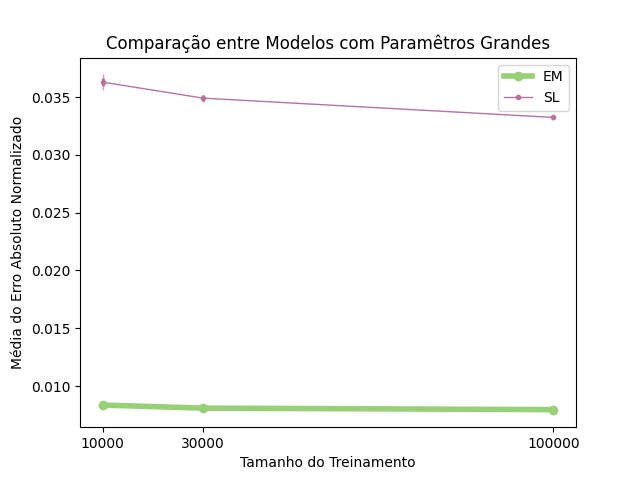
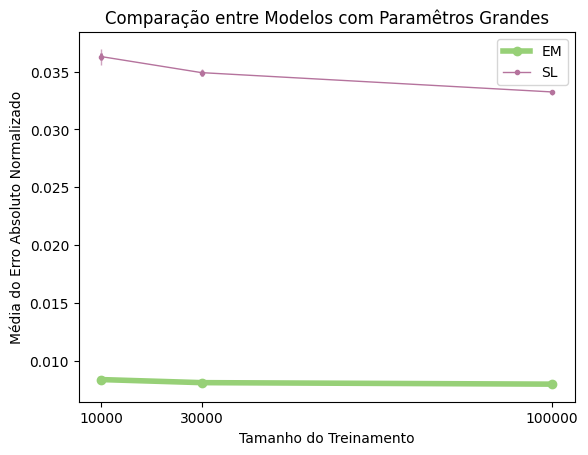
corrige enquadramento das imagens

Changed region(s): [[0.0, 0.0308, 0.9796, 0.9538], [0.2143, 0.1538, 0.6735, 0.2154], [0.3673, 0.9538, 0.7041, 0.9846]]

diff --git a/experiments/plot_data.py b/experiments/plot_data.py
@@ -103,7 +103,7 @@ def save_plot(data, metric, name, size):
     ax.yaxis.set_label_text(metric_label[metric])
     ax.set_title(f'Comparação entre Modelos com Paramêtros {tamanho[size]}')
 
-    plt.savefig(name)
+    fig.savefig(name, bbox_inches='tight')
 
 
 if __name__ == '__main__':
